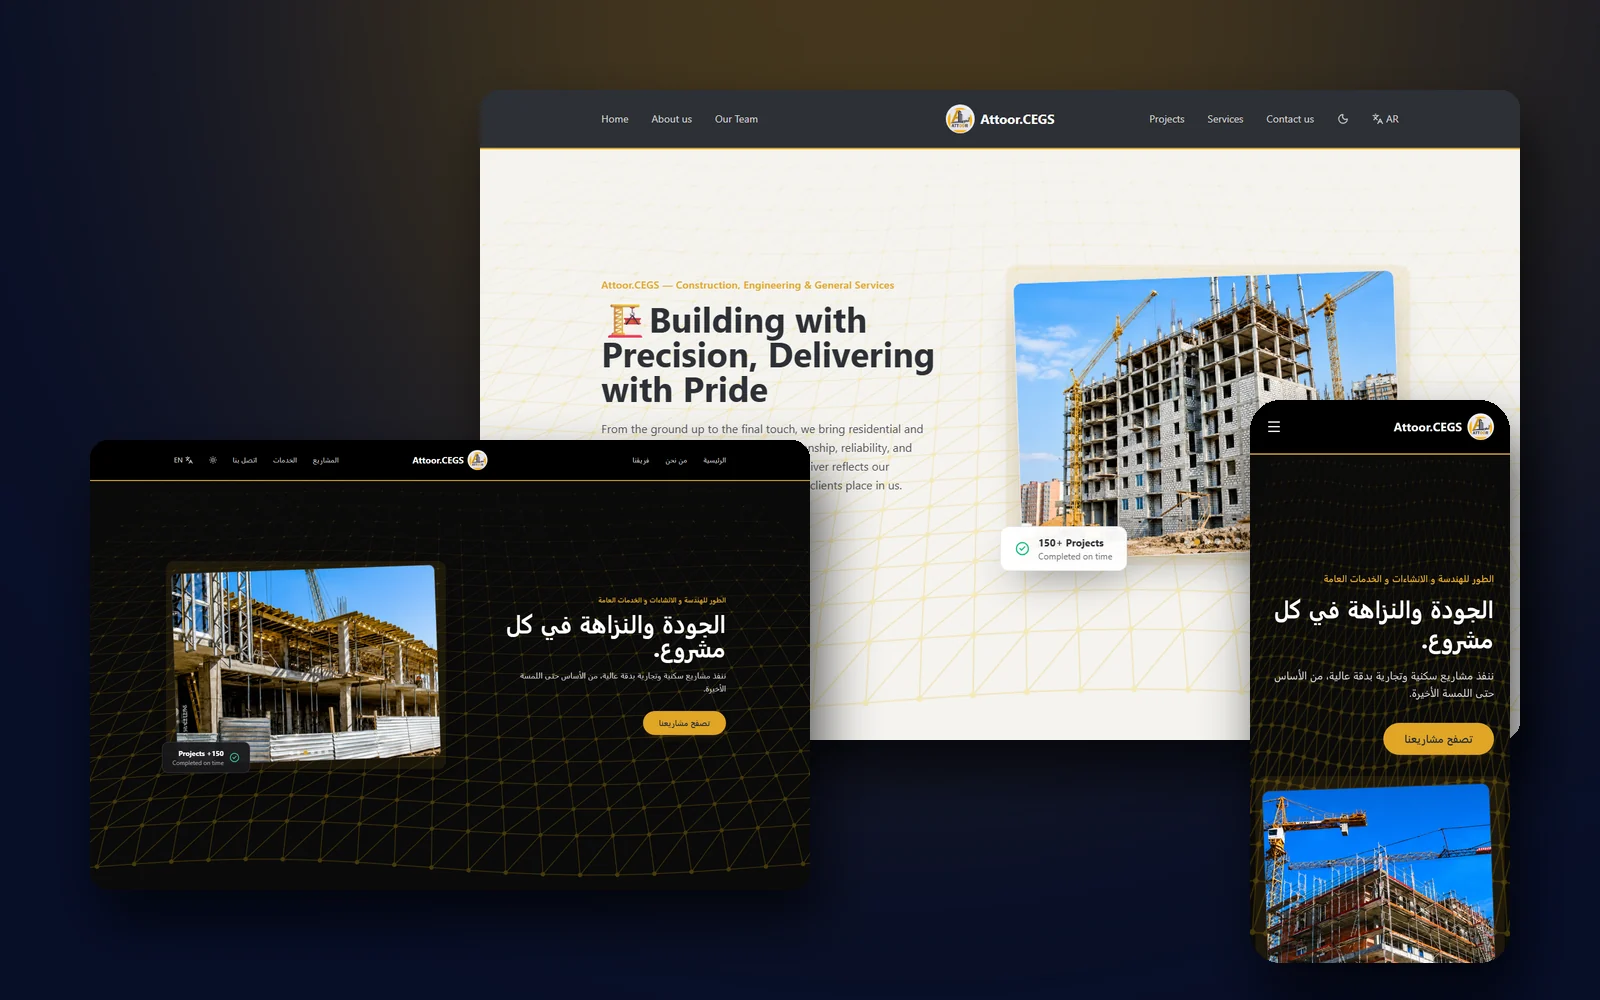
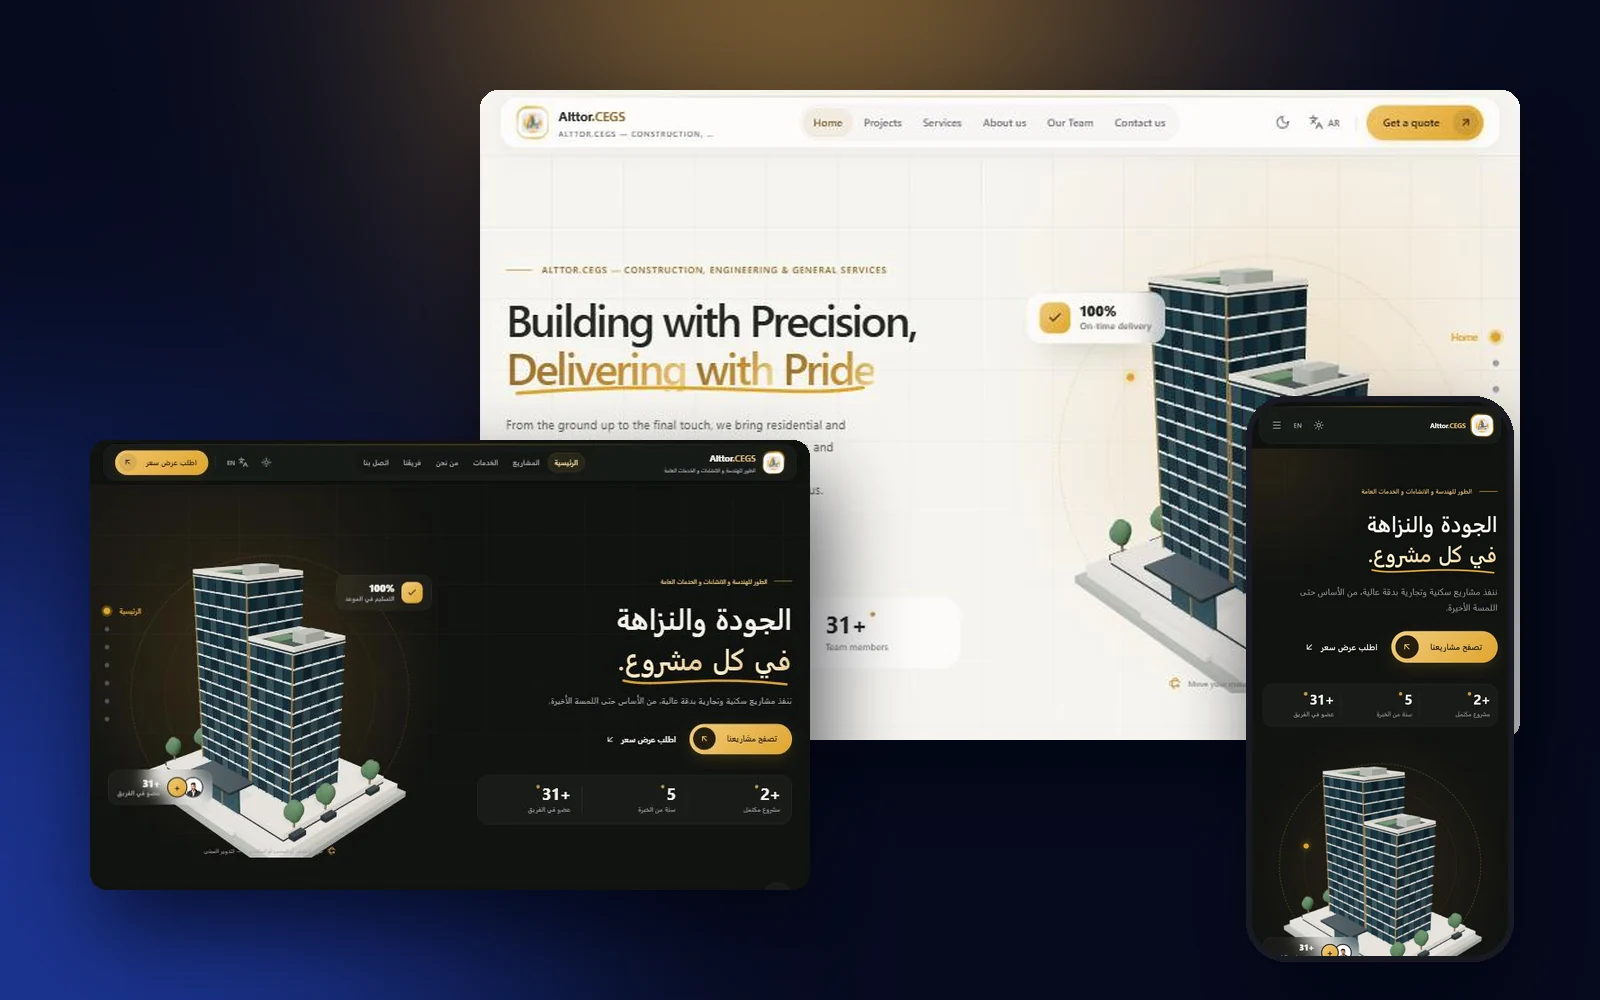
Attoor: new screenshots of the redesigned site and its 3D hero

diff --git a/work/attoor.html b/work/attoor.html
@@ -25,7 +25,7 @@
   <link rel="stylesheet" href="../assets/css/styles.css?v=20261118f">
   <script src="../assets/js/prefs.js"></script>
   <script src="../assets/js/config.js?v=6"></script>
-  <script src="../assets/js/i18n.js?v=20261118f" defer></script>
+  <script src="../assets/js/i18n.js?v=20261119a" defer></script>
   <script src="../assets/js/main.js?v=20261118f" defer></script>
   <script src="../assets/js/silk3d.js?v=20261118f" defer></script>
   <!-- Microsoft Clarity (visitor analytics), started after the page has loaded -->
@@ -119,7 +119,7 @@
         <section class="case-section reveal">
           <h2>What we built</h2>
           <div class="content">
-            <ul class="case-points"><li>Full English and Arabic versions, with a right-to-left layout for Arabic</li><li>Light and dark modes, one tap from the menu</li><li>A hero slideshow of real site photos</li><li>An admin dashboard where the company adds its own projects, without a developer</li><li>A project gallery filtered by residential, commercial and renovation work</li><li>A company profile with the figures clients ask about</li><li>A contact form and direct email</li><li>Smooth scroll animations on a layout built for phones first</li></ul>
+            <ul class="case-points"><li>Full English and Arabic versions, with a right-to-left layout for Arabic</li><li>Light and dark modes, one tap from the menu</li><li>An interactive 3D building in the hero that visitors can rotate</li><li>An admin dashboard where the company adds its own projects, without a developer</li><li>A project gallery filtered by residential, commercial and renovation work</li><li>A company profile with the figures clients ask about</li><li>A contact form and direct email</li><li>Smooth scroll animations on a layout built for phones first</li></ul>
           </div>
         </section>
       </div>

diff --git a/assets/js/i18n.js b/assets/js/i18n.js
@@ -585,7 +585,7 @@
     'What we built': 'ما بنيناه',
     'Full English and Arabic versions, with a right-to-left layout for Arabic': 'نسخة كاملة بالإنجليزي والعربي، مع تخطيط من اليمين لليسار للعربي',
     'Light and dark modes, one tap from the menu': 'وضع فاتح وداكن بضغطة من القائمة',
-    'A hero slideshow of real site photos': 'عرض صور متحرك من مواقع عمل حقيقية',
+    'An interactive 3D building in the hero that visitors can rotate': 'مبنى ثلاثي الأبعاد في واجهة الموقع يقدر الزائر يدوّره',
     'A project gallery filtered by residential, commercial and renovation work': 'معرض مشاريع بفلاتر: سكني، تجاري، ترميم',
     'A company profile with the figures clients ask about': 'تعريف بالشركة مع الأرقام اللي يسأل عنها العميل',
     'A contact form and direct email': 'نموذج تواصل وإيميل مباشر',

diff --git a/work/ats-matching.html b/work/ats-matching.html
@@ -25,7 +25,7 @@
   <link rel="stylesheet" href="../assets/css/styles.css?v=20261118f">
   <script src="../assets/js/prefs.js"></script>
   <script src="../assets/js/config.js?v=6"></script>
-  <script src="../assets/js/i18n.js?v=20261118f" defer></script>
+  <script src="../assets/js/i18n.js?v=20261119a" defer></script>
   <script src="../assets/js/main.js?v=20261118f" defer></script>
   <script src="../assets/js/silk3d.js?v=20261118f" defer></script>
   <!-- Microsoft Clarity (visitor analytics), started after the page has loaded -->

diff --git a/work/car-rental.html b/work/car-rental.html
@@ -25,7 +25,7 @@
   <link rel="stylesheet" href="../assets/css/styles.css?v=20261118f">
   <script src="../assets/js/prefs.js"></script>
   <script src="../assets/js/config.js?v=6"></script>
-  <script src="../assets/js/i18n.js?v=20261118f" defer></script>
+  <script src="../assets/js/i18n.js?v=20261119a" defer></script>
   <script src="../assets/js/main.js?v=20261118f" defer></script>
   <script src="../assets/js/silk3d.js?v=20261118f" defer></script>
   <!-- Microsoft Clarity (visitor analytics), started after the page has loaded -->

diff --git a/work/deep-focus.html b/work/deep-focus.html
@@ -25,7 +25,7 @@
   <link rel="stylesheet" href="../assets/css/styles.css?v=20261118f">
   <script src="../assets/js/prefs.js"></script>
   <script src="../assets/js/config.js?v=6"></script>
-  <script src="../assets/js/i18n.js?v=20261118f" defer></script>
+  <script src="../assets/js/i18n.js?v=20261119a" defer></script>
   <script src="../assets/js/main.js?v=20261118f" defer></script>
   <script src="../assets/js/silk3d.js?v=20261118f" defer></script>
   <!-- Microsoft Clarity (visitor analytics), started after the page has loaded -->

diff --git a/work/israf-guard.html b/work/israf-guard.html
@@ -25,7 +25,7 @@
   <link rel="stylesheet" href="../assets/css/styles.css?v=20261118f">
   <script src="../assets/js/prefs.js"></script>
   <script src="../assets/js/config.js?v=6"></script>
-  <script src="../assets/js/i18n.js?v=20261118f" defer></script>
+  <script src="../assets/js/i18n.js?v=20261119a" defer></script>
   <script src="../assets/js/main.js?v=20261118f" defer></script>
   <script src="../assets/js/silk3d.js?v=20261118f" defer></script>
   <!-- Microsoft Clarity (visitor analytics), started after the page has loaded -->

diff --git a/work/ozo-store.html b/work/ozo-store.html
@@ -25,7 +25,7 @@
   <link rel="stylesheet" href="../assets/css/styles.css?v=20261118f">
   <script src="../assets/js/prefs.js"></script>
   <script src="../assets/js/config.js?v=6"></script>
-  <script src="../assets/js/i18n.js?v=20261118f" defer></script>
+  <script src="../assets/js/i18n.js?v=20261119a" defer></script>
   <script src="../assets/js/main.js?v=20261118f" defer></script>
   <script src="../assets/js/silk3d.js?v=20261118f" defer></script>
   <!-- Microsoft Clarity (visitor analytics), started after the page has loaded -->

diff --git a/index.html b/index.html
@@ -88,7 +88,7 @@
     { "imports": { "three": "https://cdn.jsdelivr.net/npm/three@0.160.0/build/three.module.js" } }
   </script>
   <script src="assets/js/config.js?v=6"></script>
-  <script src="assets/js/i18n.js?v=20261118f" defer></script>
+  <script src="assets/js/i18n.js?v=20261119a" defer></script>
   <script src="assets/js/main.js?v=20261118f" defer></script>
   <script src="assets/js/silk3d.js?v=20261118f" defer></script>
   <script type="module" src="assets/js/hero3d.js?v=20261118f"></script>
